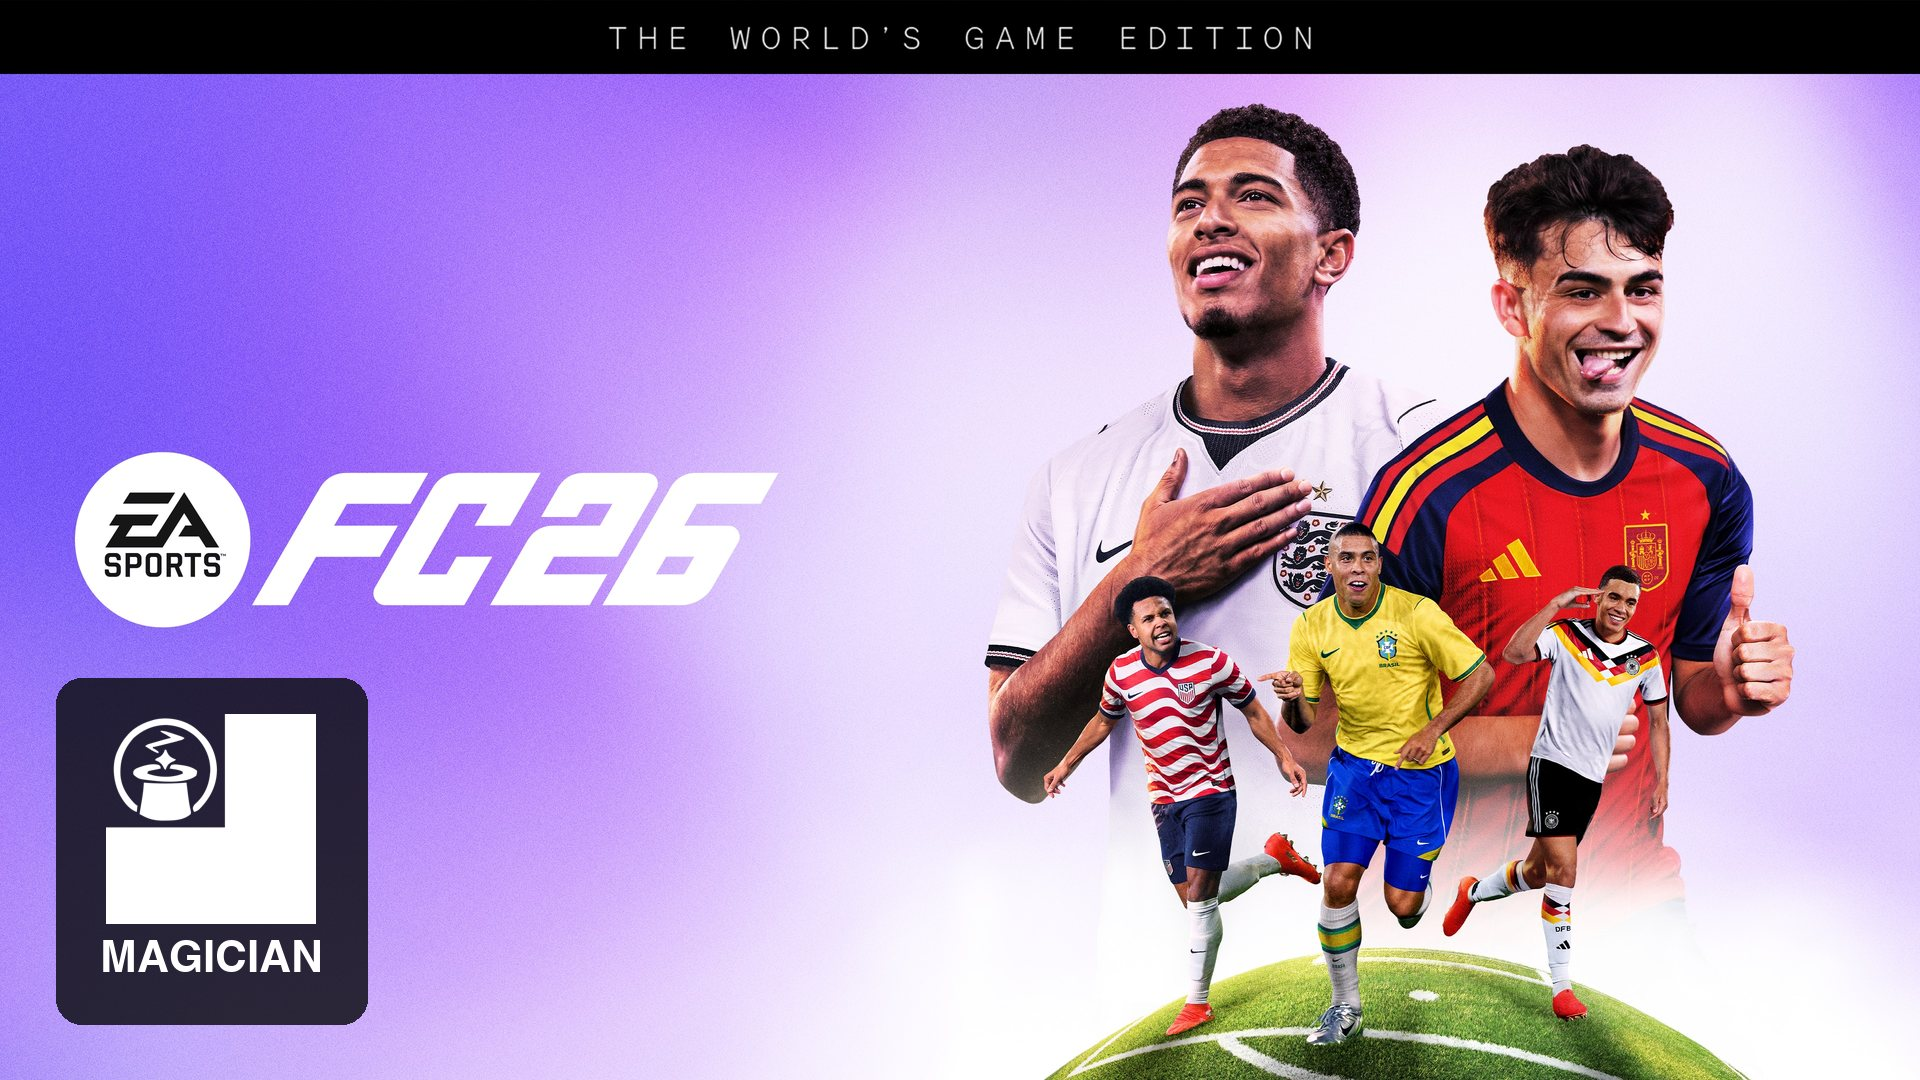
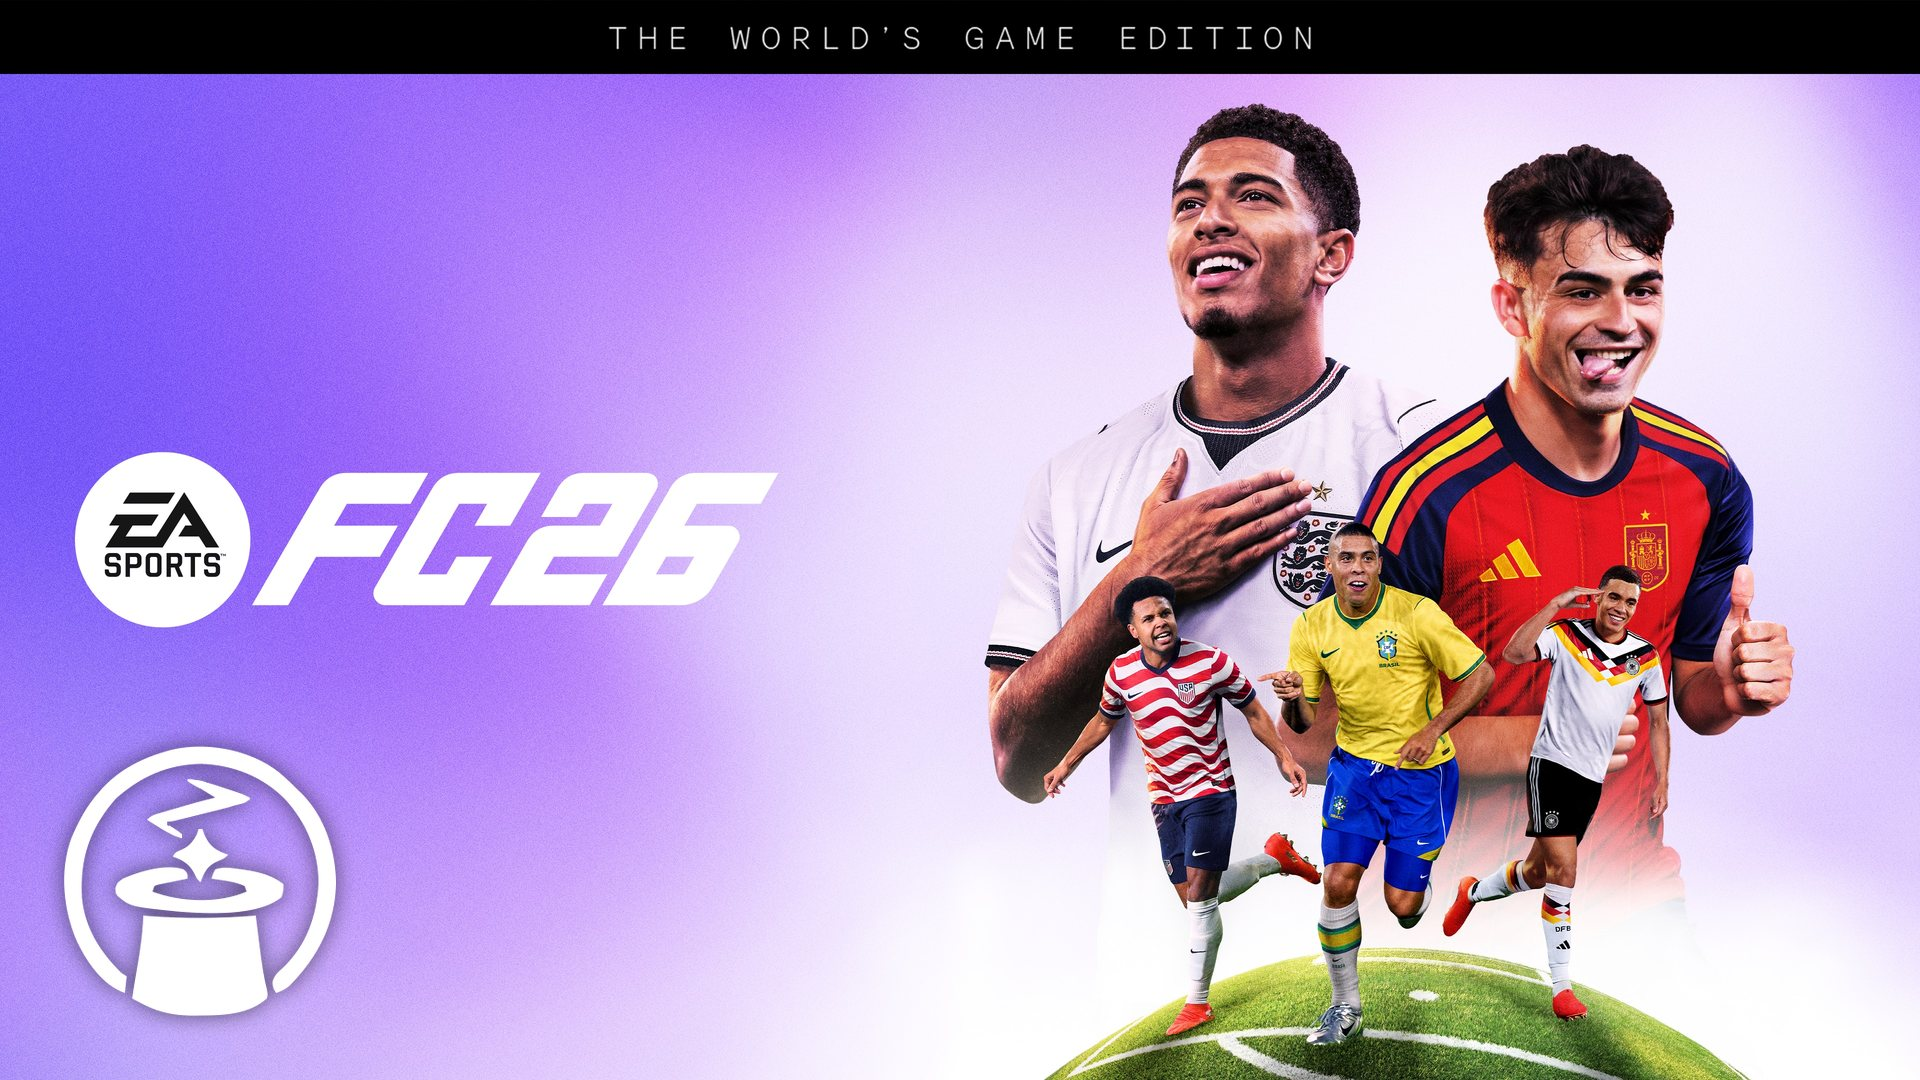
Spoke feature images v3: glyph only — no badge, no text, no border
The earlier white-on-black SVG preprocessing made qlmanage render a phantom
filled block; the icons are now recovered from the as-authored render
(darkness->alpha, recoloured white, bbox-cropped) and placed directly on the
key art with only a soft shadow for contrast.

Changed region(s): [[0.0312, 0.6111, 0.2188, 0.9472]]

diff --git a/gen/make-spoke-feats.py b/gen/make-spoke-feats.py
@@ -1,19 +1,22 @@
 # Composes the 13 spoke feature images: EA's official FC 26 key art with the
-# archetype's own icon badged bottom-left (feat-spoke-<id>.jpg). The clean art
-# is also saved as feat-spokes.jpg for the in-body cover figure.
+# archetype's icon placed bottom-left — just the glyph, no badge, no text
+# (user's call, third iteration). The clean art is also saved as
+# feat-spokes.jpg for the in-body cover figure.
 #
-# macOS-only: there is no SVG rasteriser in the repo's toolchain, so the icons
-# go through `qlmanage`. Each SVG is pre-processed to white-on-black and the
-# thumbnail's luminance becomes the alpha mask (qlmanage output is opaque).
-#
-# Usage: python3 gen/make-spoke-feats.py   (writes into assets/)
+# macOS-only: icons rasterise through `qlmanage` (no SVG rasteriser in the
+# toolchain). The SVGs are rendered AS-AUTHORED on qlmanage's white
+# background; the glyph (#CCCCCC fills) is recovered by mapping darkness to
+# alpha and recolouring white. Do NOT pre-process fills or inject background
+# rects — that path was tried and qlmanage rendered the composite wrongly
+# (a phantom filled block); the as-authored render is the reliable one.
+# The artwork also only occupies part of each SVG canvas, so the recovered
+# glyph is bbox-cropped before scaling.
 import os
-import re
 import subprocess
 import sys
 import tempfile
 
-from PIL import Image, ImageDraw, ImageFont
+from PIL import Image, ImageFilter
 
 ROOT = os.path.join(os.path.dirname(__file__), '..')
 ASSETS = os.path.join(ROOT, 'assets')
@@ -22,52 +25,48 @@ KEY_ART = os.path.join(ASSETS, 'EAS_FC26_WGE_KeyArt_RGB_16-9_3840x2160.jpg')
 ARCHES = ['shot-stopper', 'sweeper-keeper', 'progressor', 'boss', 'engine', 'marauder',
           'recycler', 'maestro', 'creator', 'spark', 'magician', 'finisher', 'target']
 
-
-def rasterize_icons(tmp):
-    for aid in ARCHES:
-        svg = open(os.path.join(ASSETS, 'archetypes', f'{aid}.svg')).read()
-        m = re.search(r'width="(\d+)" height="(\d+)"', svg)
-        svg = svg.replace('fill="#CCCCCC"', 'fill="#FFFFFF"')
-        svg = re.sub(r'(<svg[^>]*>)',
-                     rf'\1<rect x="0" y="0" width="{m.group(1)}" height="{m.group(2)}" fill="#000000"/>',
-                     svg, count=1)
-        open(os.path.join(tmp, f'{aid}.svg'), 'w').write(svg)
-    r = subprocess.run(['qlmanage', '-t', '-s', '500', '-o', tmp]
-                       + [os.path.join(tmp, f'{a}.svg') for a in ARCHES], capture_output=True)
-    if r.returncode:
-        sys.exit(f'qlmanage failed: {r.stderr.decode()[:200]}')
+ICON_H = 270          # glyph height on the 1920x1080 canvas
+MARGIN = 64           # from the bottom-left corner
 
 
-def icon_white(tmp, aid):
-    im = Image.open(os.path.join(tmp, f'{aid}.svg.png'))
+def glyph(tmp, aid):
+    """White-on-transparent glyph, cropped to its artwork, from the original SVG."""
+    src = os.path.join(ASSETS, 'archetypes', f'{aid}.svg')
+    r = subprocess.run(['qlmanage', '-t', '-s', '600', '-o', tmp, src], capture_output=True)
+    png = os.path.join(tmp, f'{aid}.svg.png')
+    if r.returncode or not os.path.exists(png):
+        sys.exit(f'qlmanage failed for {aid}: {r.stderr.decode()[:200]}')
+    im = Image.open(png).convert('L')
+    # White bg (255) -> alpha 0; the #CCCCCC glyph (204) -> alpha 255;
+    # antialiased edges in between scale linearly.
+    a = im.point(lambda v: max(0, min(255, int((255 - v) * 255 / (255 - 204)))))
     out = Image.new('RGBA', im.size, (255, 255, 255, 0))
-    out.putalpha(im.convert('L'))  # luminance -> alpha
-    return out
+    out.putalpha(a)
+    box = a.getbbox()
+    if not box:
+        sys.exit(f'{aid}: empty glyph')
+    return out.crop(box)
 
 
 def main():
     art = Image.open(KEY_ART).resize((1920, 1080), Image.LANCZOS).convert('RGB')
     art.save(os.path.join(ASSETS, 'feat-spokes.jpg'), quality=84, optimize=True, progressive=True)
-    font = ImageFont.truetype('/System/Library/Fonts/Helvetica.ttc', 44, index=1)  # Bold
     with tempfile.TemporaryDirectory() as tmp:
-        rasterize_icons(tmp)
         for aid in ARCHES:
-            label = aid.replace('-', ' ').upper()
+            g = glyph(tmp, aid)
+            g = g.resize((round(g.width * ICON_H / g.height), ICON_H), Image.LANCZOS)
             img = art.copy()
-            d = ImageDraw.Draw(img, 'RGBA')
-            icon = icon_white(tmp, aid)
-            icon.thumbnail((210, 210))  # no outline, bigger icon — user's call
-            tw = d.textlength(label, font=font)
-            bw = int(max(tw, icon.width) + 88)
-            bh = 36 + 210 + 14 + 52 + 34
-            bx, by = 56, 1080 - 56 - bh  # bottom-left: the one clean corner of the art
-            d.rounded_rectangle([bx, by, bx + bw, by + bh], radius=26, fill=(13, 13, 20, 216))
-            ix = bx + (bw - icon.width) // 2
-            img.paste(icon, (ix, by + 36), icon)
-            d.text((bx + (bw - tw) // 2, by + 36 + 210 + 14), label, font=font, fill=(255, 255, 255, 255))
+            x, y = MARGIN, 1080 - MARGIN - g.height
+            # Soft shadow only — keeps the white glyph legible on the lighter
+            # purple without drawing any box or line around it.
+            sh = Image.new('RGBA', img.size, (0, 0, 0, 0))
+            sh.paste(Image.new('RGBA', g.size, (10, 10, 20, 150)), (x, y), g)
+            sh = sh.filter(ImageFilter.GaussianBlur(10))
+            img = Image.alpha_composite(img.convert('RGBA'), sh)
+            img.paste(g, (x, y), g)
             out = os.path.join(ASSETS, f'feat-spoke-{aid}.jpg')
-            img.save(out, quality=84, optimize=True, progressive=True)
-            print(f'{aid}: {os.path.getsize(out) // 1024}KB')
+            img.convert('RGB').save(out, quality=84, optimize=True, progressive=True)
+            print(f'{aid}: {os.path.getsize(out) // 1024}KB glyph {g.width}x{g.height}')
 
 
 if __name__ == '__main__':
